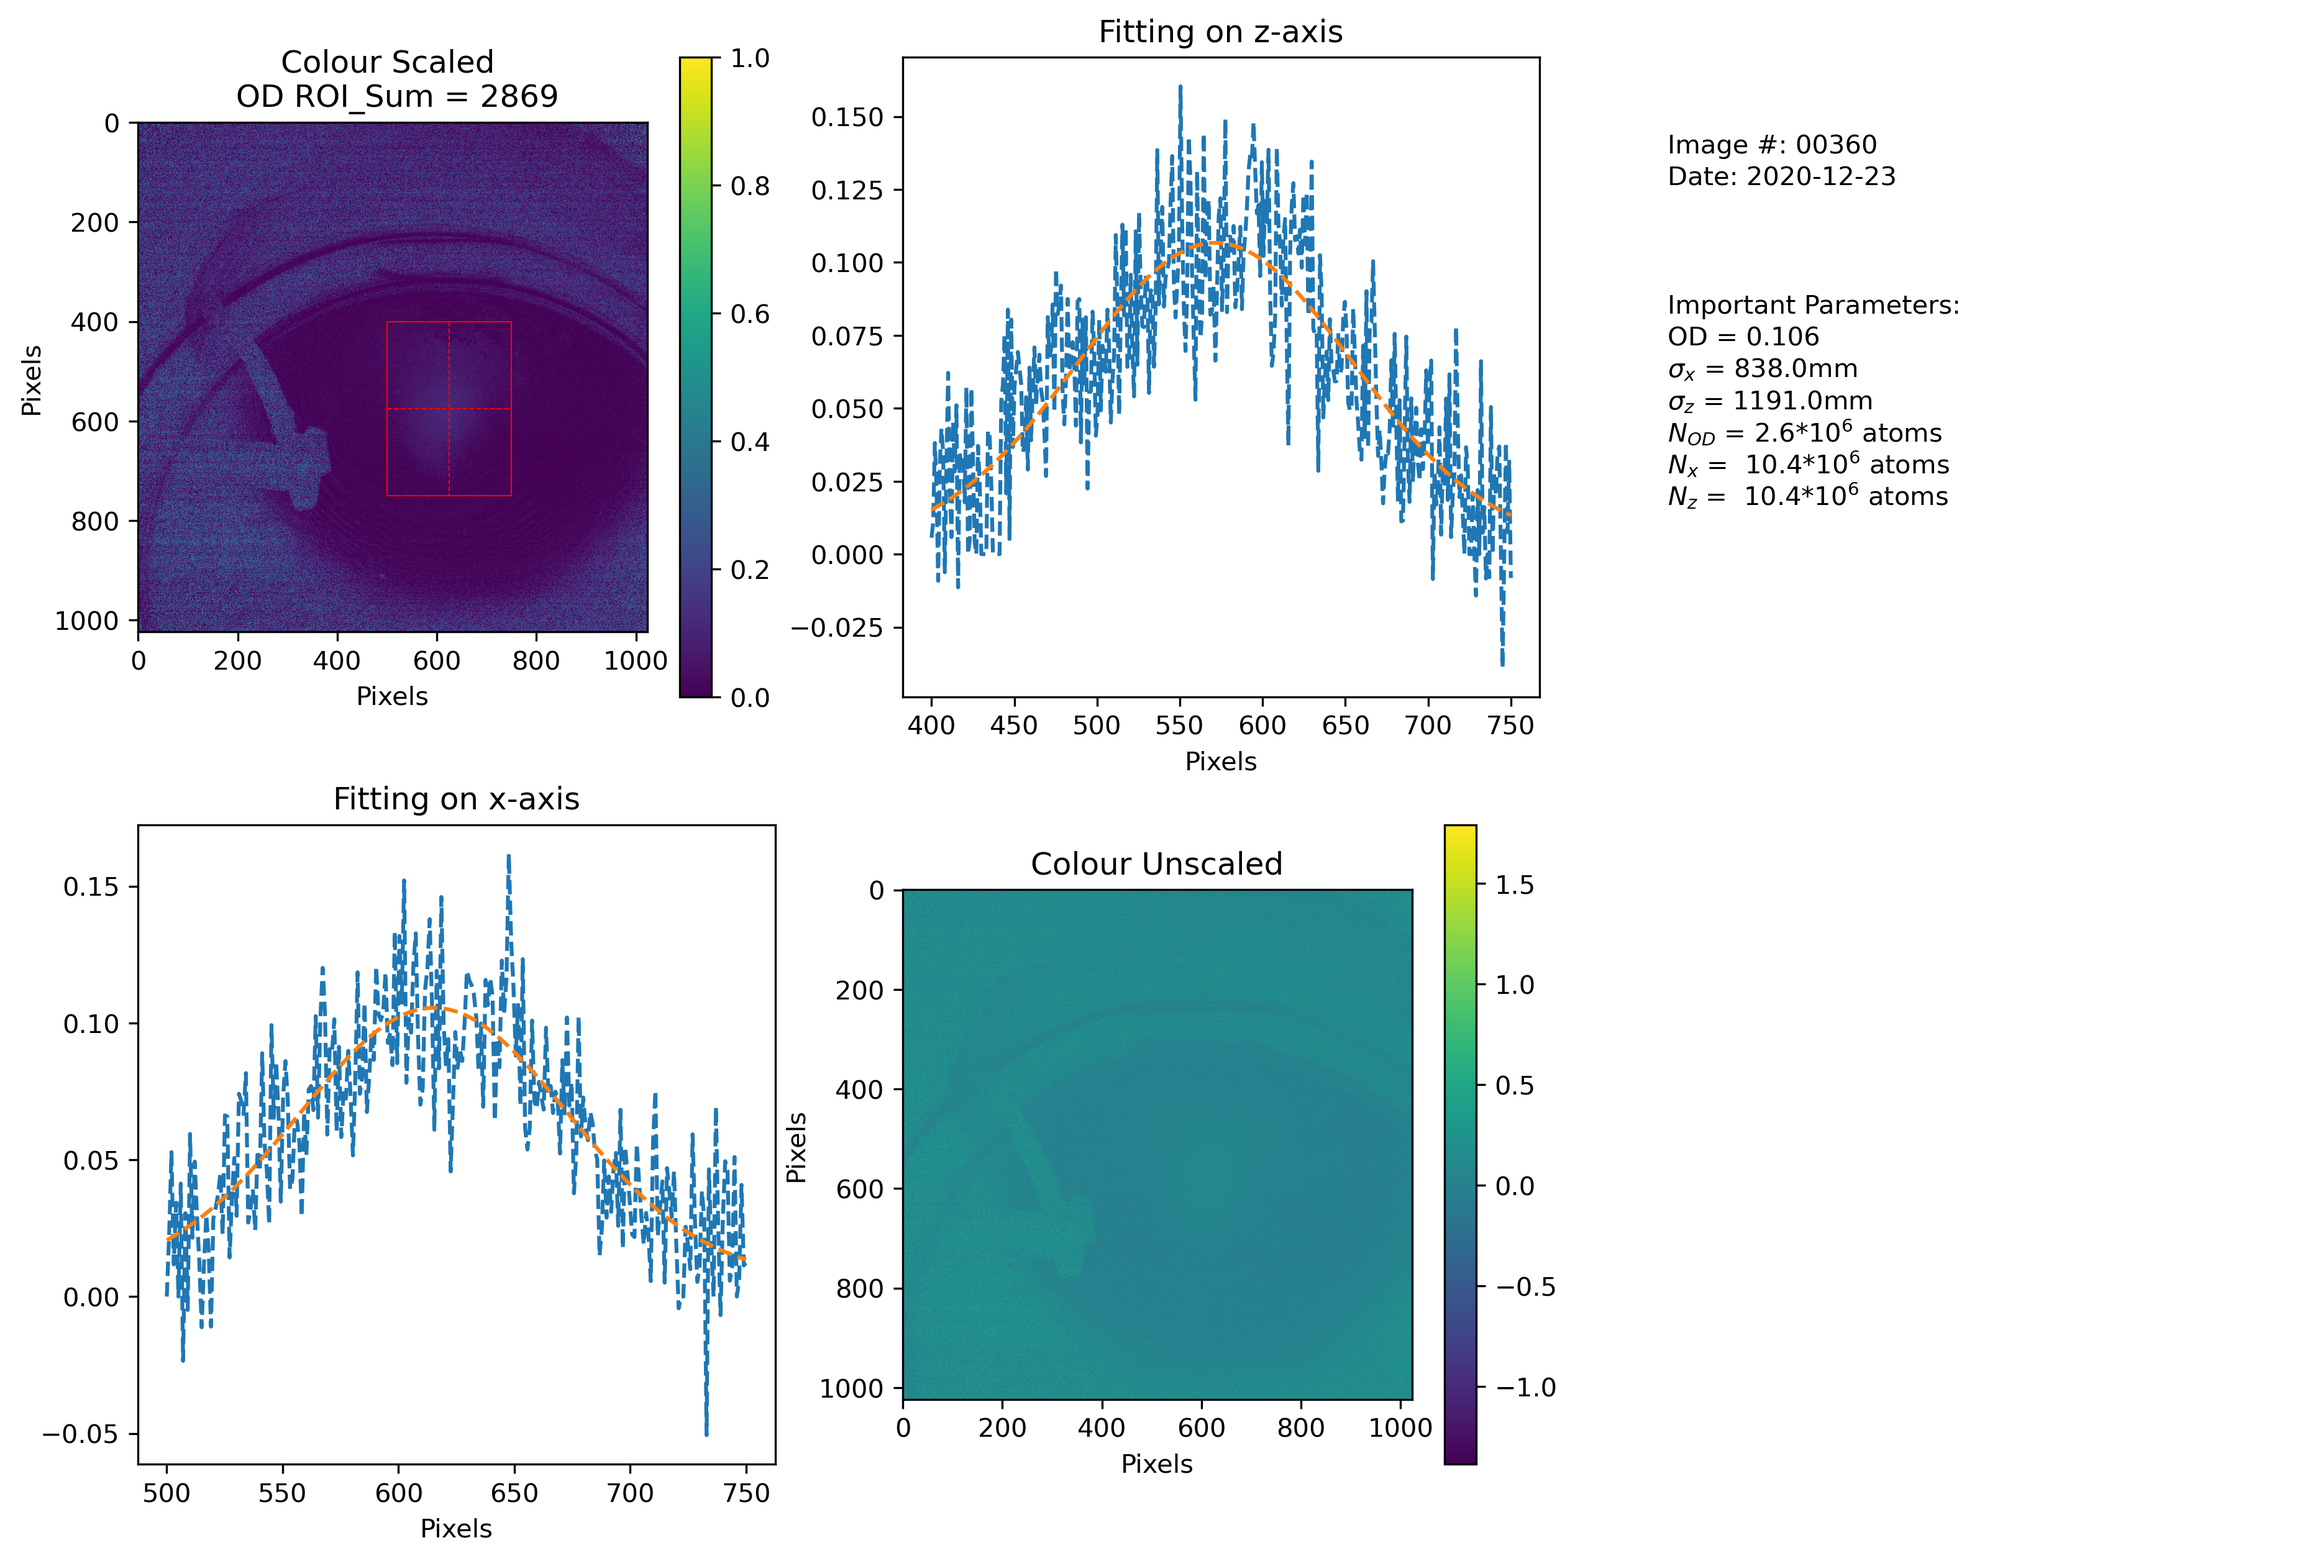
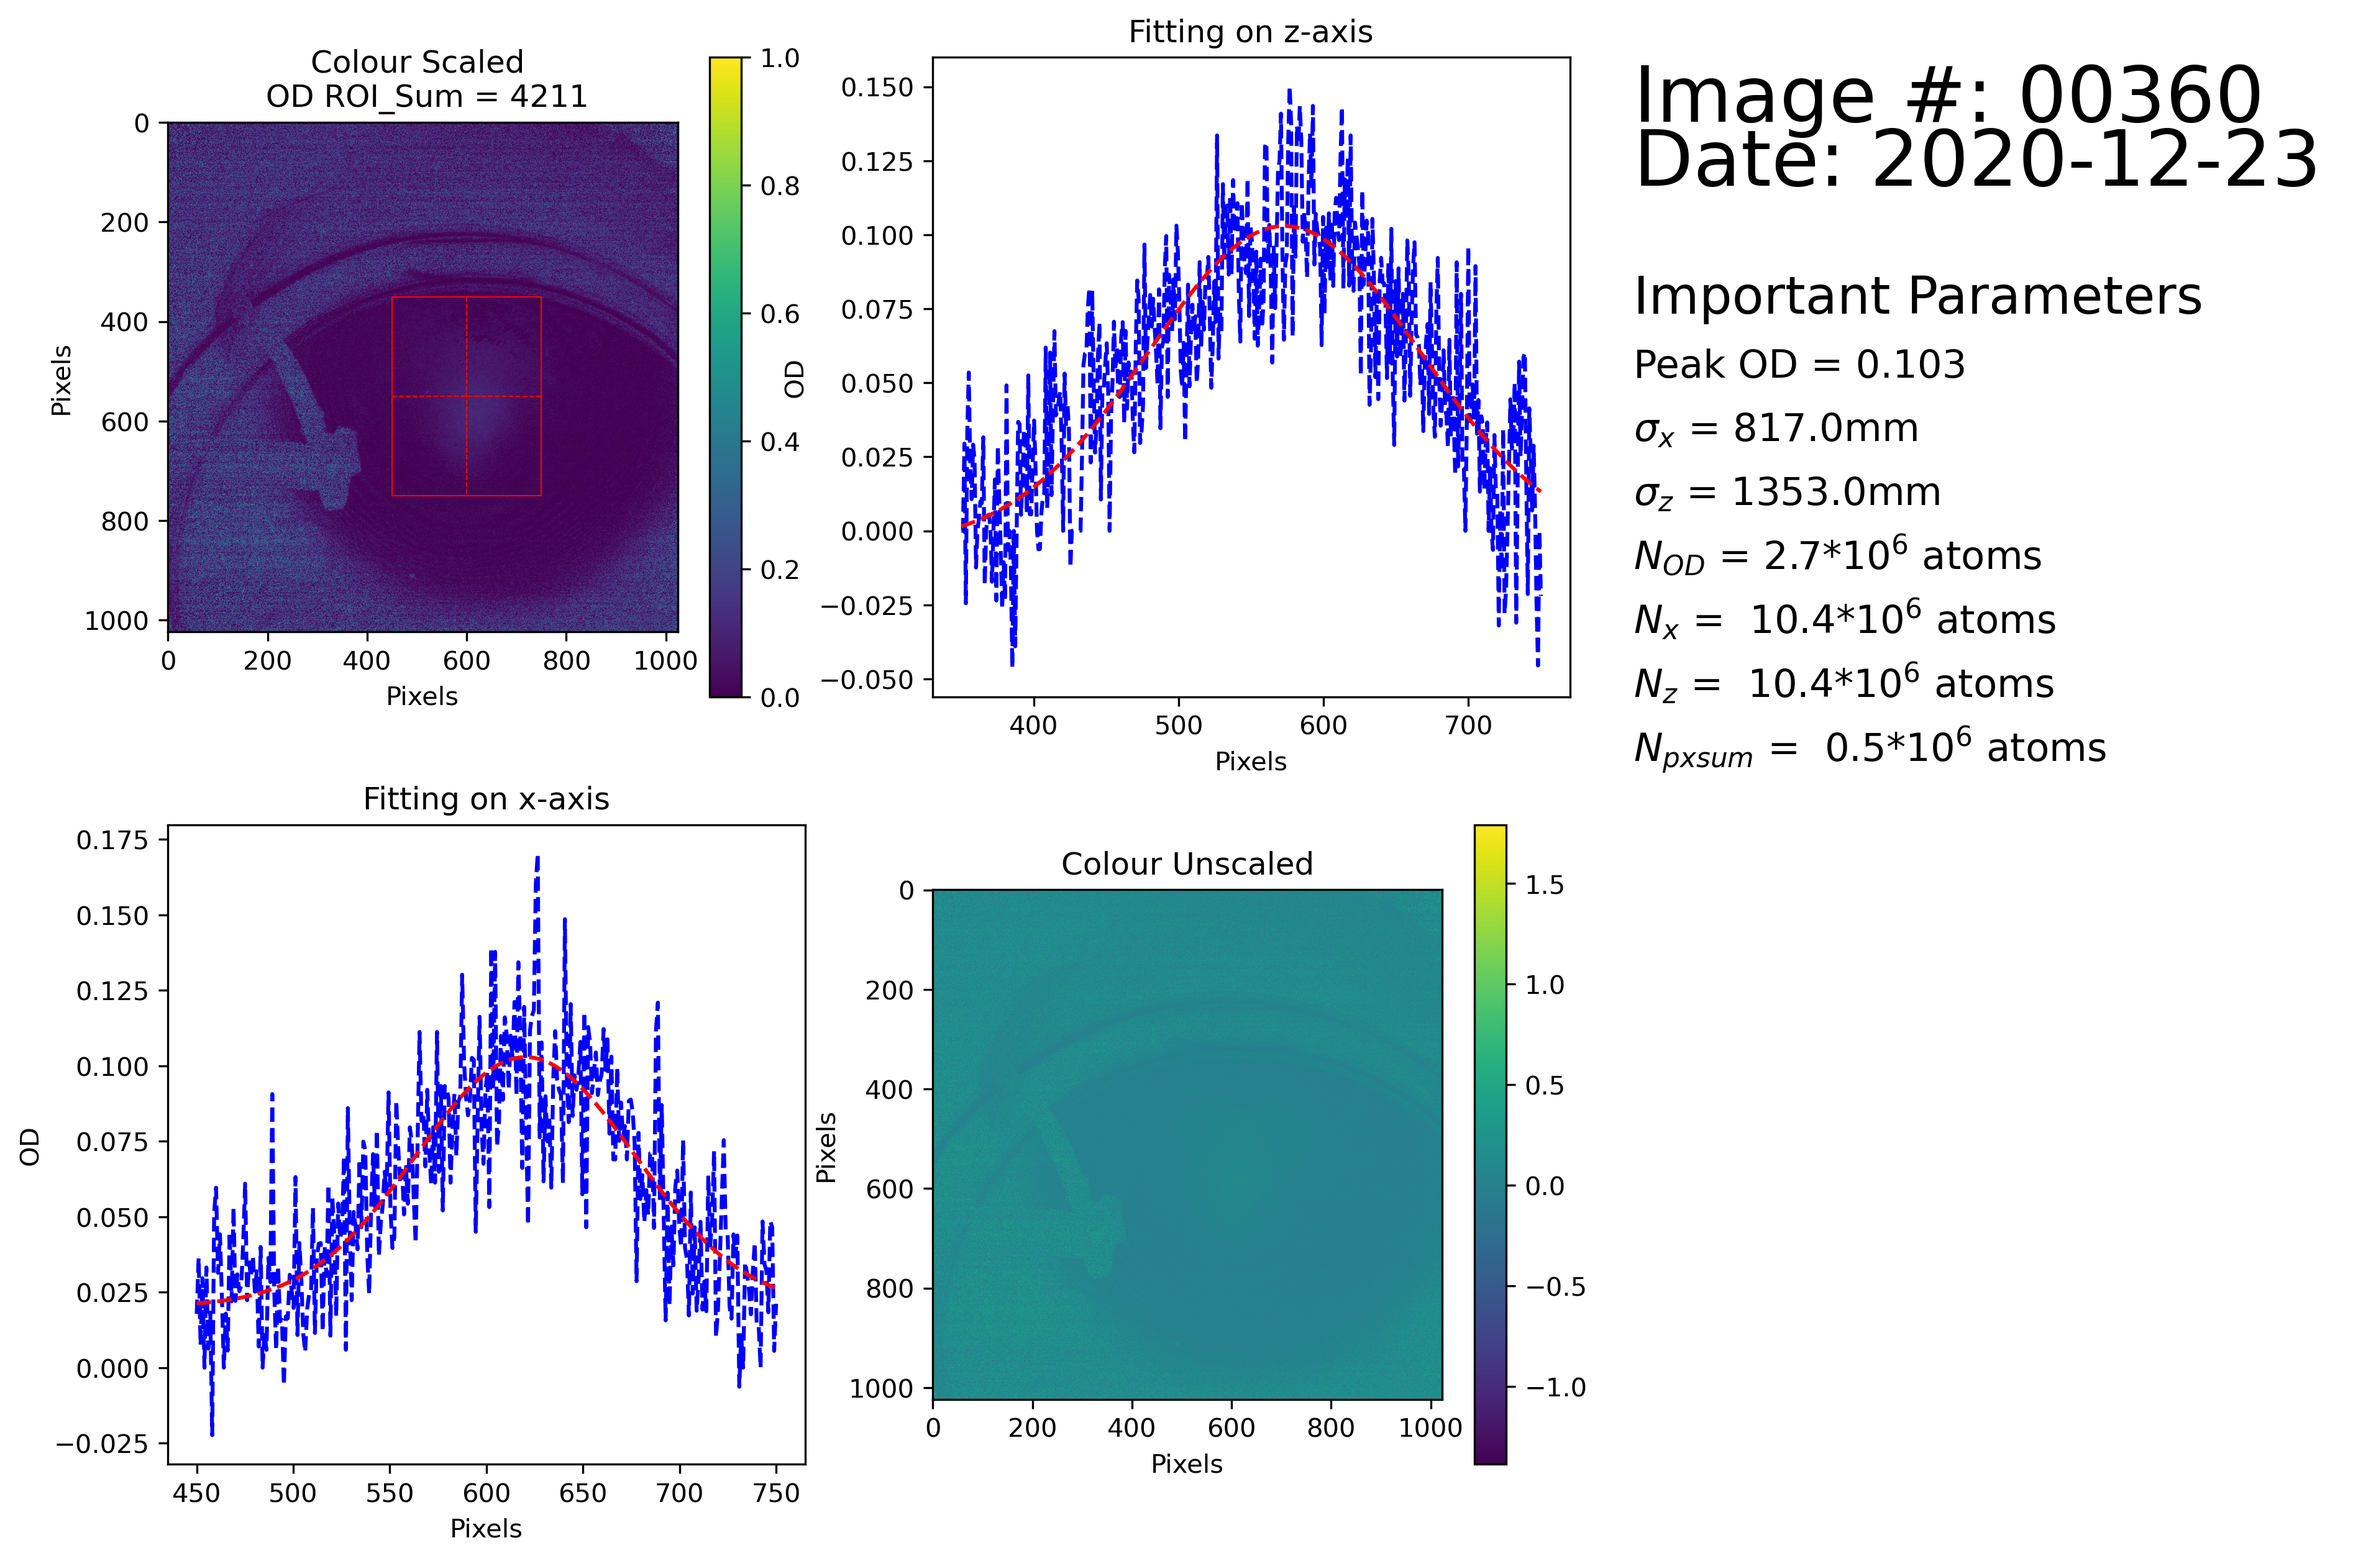
Changed CSV saving and tidied up stuff

diff --git a/Image_Analysis.py b/Image_Analysis.py
@@ -23,18 +23,20 @@ def gaus(x,b,a,x0,sigma):
     return b+a*np.exp(-(x-x0)**2/(2*sigma**2))
 
 
-''' Set parameters.'''
-image_no = '00360' #Unique Image number you want to analyse. Make sure the date is today's date.
-
-num_run = 1 #number of run
+#%%Set parameters
+image_no = '00360' #Unique Image number you want to analyse. Make sure the date on the file's name is today's date.
+num_run = 1 #number of runs
 
 #Mention below the starting and end points of x and Z ROI. This wil also be used to plot two red lines showing the region
-ROI_x_start = 500
-ROI_x_end = 750
-ROI_z_start = 400
-ROI_z_end = 750
+ROI_x = [450,750]
+ROI_z = [350,750]
 cbarlim=(0,1.0) #set your colour bar limit for scaled image
 
+#%%
+ROI_x_start = ROI_x[0]
+ROI_x_end = ROI_x[1]
+ROI_z_start = ROI_z[0]
+ROI_z_end = ROI_z[1]
 ROI_x_size = ROI_x_end-ROI_x_start
 ROI_z_size = ROI_z_end-ROI_z_start
 
@@ -101,18 +103,15 @@ else:
     # lastImageNum = float(lastImageName[15:20]) + 1
     
 ''' Saving images. '''
-def plot_im():
+def proc_im():
     img_at = cv2.imread(savepath + folder_date + "-img_%05s_a.png" % (image_no),0) # With atom                    
     img_las = cv2.imread(savepath + folder_date + "-img_%05s_b.png" % (image_no),0) # Laser alone
     img_bck = cv2.imread(savepath + folder_date + "-img_%05s_c.png" % (image_no),0) # Background
-    # img_at = cv2.imread('image_a.png',0) # With atom                    
-    # img_las = cv2.imread('image_b.png',0) # Laser alone
-    # img_bck = cv2.imread('image_c.png',0) # Background
+
             
-        #%% Creation of the 2D array of optical depths
-        
-        # Substraction of the background
-        
+#%% Creation of the 2D array of optical depths
+
+# Substraction of the background
     img_las = img_las - img_bck
     img_at = img_at -img_bck
     ###Correction of the zeros
@@ -139,71 +138,54 @@ def plot_im():
             
     #    with np.printoptions(threshold=np.inf):
       
-    #Plot OD on 2,2,1
-    fig = plt.figure(figsize=(15,10))
-    plt.subplot(2,3,5)
-    plt.title("Colour Unscaled")
-    plt.xlabel("Pixels")
-    plt.ylabel("Pixels")
 
-       #plt.title("OD plot - full scale")
-       # plt.xlabel("x")
-       #plt.ylabel("OD")
-    plt.imshow(OD)
-       # plt.clim(0,1) # colourbar limit (,)
-    plt.colorbar()
       
-       #%% Fitting along the x axis (integrated over all z values)
-       # Gaussian fitting to get the width
+    #%% Fitting along the x axis (integrated over all z values)
+    # Gaussian fitting to get the width
     sum_x = np.sum(OD, axis = 0)
     n = len(sum_x)
     x = np.linspace(1,n,n)
     x_val_to_find = imin + (np.max(sum_x)-imin)*1/np.exp(1)
     a_x = np.where(x>=x_val_to_find)
-    
     if np.max(sum_x)<=0:
         in_max_x = n/2
         print("np.max(sum_x) is negative!")
     else:
         in_max_x = np.where(x==round(np.max(sum_x)))[0][0]
     fit_x,pcov = curve_fit(gaus,x,sum_x,p0=[imin,np.max(sum_x),in_max_x,len(a_x[0])/2])
-        # Measure of the fitting accuracy for the horizontal cross-section
-
-
+    # Measure of the fitting accuracy for the horizontal cross-section
     err_x = sqrt(abs(pcov[3,3]))/fit_x[3]
     print("OD x  fit done")       
-       #%% Fitting along the z axis (integrated over all x values)
-       # Gaussian fitting to get the width
+    #%% Fitting along the z axis (integrated over all x values)
+    # Gaussian fitting to get the width
     sum_z = np.sum(OD, axis = 1)
     n = len(sum_z)
     z = np.linspace(1,n,n)
     z_val_to_find = imin + (np.max(sum_z)-imin)*1/np.exp(1)
     a_z = np.where(z>=z_val_to_find)
-
-    
     if np.max(sum_z)<=0:
         in_max_z = n/2
         print("np.max(sum_z) is negative!")
     else:
         in_max_z = np.where(z==round(np.max(sum_z)))[0][0]
     fit_z,pcov = curve_fit(gaus,z,sum_z,p0=[imin,np.max(sum_z),in_max_z,len(a_z[0])/2])
-       # Measure of the fitting accuracy for the vertical cross-section
+    # Measure of the fitting accuracy for the vertical cross-section
     err_z = sqrt(abs(pcov[3,3]))/fit_z[3]
     print("OD z  fit done")  
-       #%% Global peak optical depths
+    #%% Global peak optical depths
       
     center_x = int(round(fit_x[2]))
     center_z = int(round(fit_z[2]))
     center_x = ROI_x_start + int(ROI_x_size/2)
     center_z = ROI_z_start + int(ROI_z_size/2)
-    #    # Cross sections centered in the previous peaks
+    # Cross sections centered in the previous peaks
     cross_x1 = OD[center_z,:]
     cross_x = cross_x1[ROI_x_start:ROI_x_end]
     cross_z1 = OD[:,center_x]
     cross_z = cross_z1[ROI_z_start:ROI_z_end];
     x = np.linspace(1,len(cross_x), len(cross_x))
     z = np.linspace(1,len(cross_z), len(cross_z))
-       # Gaussian fitting of those cross sections
+    # Gaussian fitting of those cross sections
     cross_x_fit,pcov = curve_fit(gaus,x,cross_x,p0=[imin, np.max(cross_x),len(cross_x)/2,1])
     cross_z_fit,pcov = curve_fit(gaus,z,cross_z,p0=[imin, np.max(cross_z),len(cross_z)/2,1])
     print("OD second  fit done")  
@@ -217,26 +199,35 @@ def plot_im():
     points_z = [ROI_z_start+(ROI_z_size/2), ROI_z_start+(ROI_z_size/2)]
     points_z2 = [ROI_z_start, ROI_z_end]
     points_x2= [ROI_x_start + (ROI_x_size/2), ROI_x_start + (ROI_x_size/2)]
-    
+        
+    #%%Plotting
+    fig = plt.figure(figsize=(15,10))
+    plt.subplot(2,3,5)
+    plt.title("Colour Unscaled")
+    plt.xlabel("Pixels")
+    plt.ylabel("Pixels")
+    plt.imshow(OD)
+    plt.colorbar()
     fit_xl = gaus(x, *cross_x_fit)
     plt.subplot(2,3,4)
     plt.title("Fitting on x-axis")
     plt.xlabel("Pixels")
+    plt.ylabel("OD")
     xpixels=np.linspace(ROI_x_start,ROI_x_end,ROI_x_size)
-    plt.plot(xpixels,cross_x,'--')
-    plt.plot(xpixels,fit_xl,'--')
+    plt.plot(xpixels,cross_x,'--b')
+    plt.plot(xpixels,fit_xl,'--r')
       
     fit_zl = gaus(z, *cross_z_fit)
     plt.subplot(2,3,2)
     plt.xlabel("Pixels")
+    plt.ylabel("OD")
     plt.title("Fitting on z-axis")
     zpixels=np.linspace(ROI_z_start,ROI_z_end,ROI_z_size)
-    plt.plot(zpixels,cross_z,'--')
-    plt.plot(zpixels,fit_zl,'--')
+    plt.plot(zpixels,cross_z,'--b')
+    plt.plot(zpixels,fit_zl,'--r')
      
     plt.subplot(2,3,1)
     plt.title("Colour Scaled \n OD ROI_Sum = %i"  %ROI_sum,  fontsize=12)
-    #plt.ylabel("OD")
     plt.xlabel("Pixels")
     plt.ylabel("Pixels")
     plt.plot(points_x, points_z, linestyle='dashed',linewidth=0.5, color='red')
@@ -268,19 +259,19 @@ def plot_im():
     areaz = np.sum(sum_z-imin)
     Nx = areax*px_size**2/sigmatotal
     Nz = areaz*px_size**2/sigmatotal
-
-    
+    Npxsum = ROI_sum*px_size**2/sigmatotal
 
     plt.subplot(2,3,3)
-    plt.text(0, 0.8, "Date: " +folder_date)
-    plt.text(0, 0.85, "Image #: %05s" % (image_no))
-    plt.text(0, 0.6, "Important Parameters:")
-    plt.text(0, 0.55, "OD = " + str(round(ODpk,3)))
-    plt.text(0, 0.50, "$\sigma_{x}$ = " + str(round(sigma_x,6)*10**6)+"mm")
-    plt.text(0, 0.45, "$\sigma_{z}$ = " + str(round(sigma_z,6)*10**6)+"mm")
-    plt.text(0, 0.40, "$N_{OD}$ = " + str(round(N_OD/(10**6),1)) + "*$10^{6}$ atoms") 
-    plt.text(0, 0.35, "$N_{x}$ =  " + str(round(Nx/(10**6),1)) + "$*10^{6}$ atoms")
-    plt.text(0, 0.30, "$N_{z}$ =  " + str(round(Nz/(10**6),1)) + "$*10^{6}$ atoms")
+    plt.text(-0.1, 0.9, "Image #: %05s" % (image_no), fontsize=30)
+    plt.text(-0.1, 0.8, "Date: " +folder_date, fontsize=30)
+    plt.text(-0.1, 0.6, "Important Parameters", fontsize=20, )
+    plt.text(-0.1, 0.50, "Peak OD = " + str(round(ODpk,3)), fontsize=15)
+    plt.text(-0.1, 0.40, "$\sigma_{x}$ = " + str(round(sigma_x,6)*10**6)+"mm", fontsize=15)
+    plt.text(-0.1, 0.30, "$\sigma_{z}$ = " + str(round(sigma_z,6)*10**6)+"mm", fontsize=15)
+    plt.text(-0.1, 0.20, "$N_{OD}$ = " + str(round(N_OD/(10**6),1)) + "*$10^{6}$ atoms", fontsize=15) 
+    plt.text(-0.1, 0.10, "$N_{x}$ =  " + str(round(Nx/(10**6),1)) + "$*10^{6}$ atoms", fontsize=15)
+    plt.text(-0.1, 0.00, "$N_{z}$ =  " + str(round(Nz/(10**6),1)) + "$*10^{6}$ atoms", fontsize=15)
+    plt.text(-0.1, -0.10, "$N_{px sum}$ =  " + str(round(Npxsum/(10**6),1)) + "$*10^{6}$ atoms", fontsize=15)
     plt.axis('off')
                
        #save image
@@ -291,7 +282,7 @@ def plot_im():
 
       #%% Export parameters of interest
      
-    headline = ['Run #', 'filename','sigma_x','sigma_z','ROI_sum', 'sigma_x fit error','sigma_z fit error']
+    headline = ['Image #', 'filename','Placeholder','sigma_x','sigma_z','X Pos','Z Pos',"N_OD","N_x","N_z","N_pxsum0","Peak OD"]
       # If the csv file does not exist yet, creates it with its header
     if not os.path.exists(savepath + folder_date + "-Data00000.csv"):
         with open(savepath + folder_date +  '-Data00000.csv', 'x', newline = '') as file:
@@ -302,10 +293,12 @@ def plot_im():
         reader = csv.reader(file, dialect = 'excel')
         rows = list(reader)
         line_num = len(rows)
-    parameters = [line_num,filename, sigma_x,sigma_z, ROI_sum, err_x,err_z]
+    parameters = [image_no,filename,'Nan', sigma_x,sigma_z,str(ROI_x[0])+"-"+str(ROI_x[1]),str(ROI_z[0])+"-"+str(ROI_z[1]), N_OD, Nx, Nz, Npxsum, ODpk]
       # Adds the new set of parameters following the existing lines
     with open(savepath + folder_date + '-Data00000.csv', 'a', newline = '') as file:
         writer = csv.writer(file, dialect = 'excel', quoting = csv.QUOTE_NONE)
         writer.writerow(parameters)
+
+
 for i in range(num_run):
-    plot_im()
+    proc_im()
